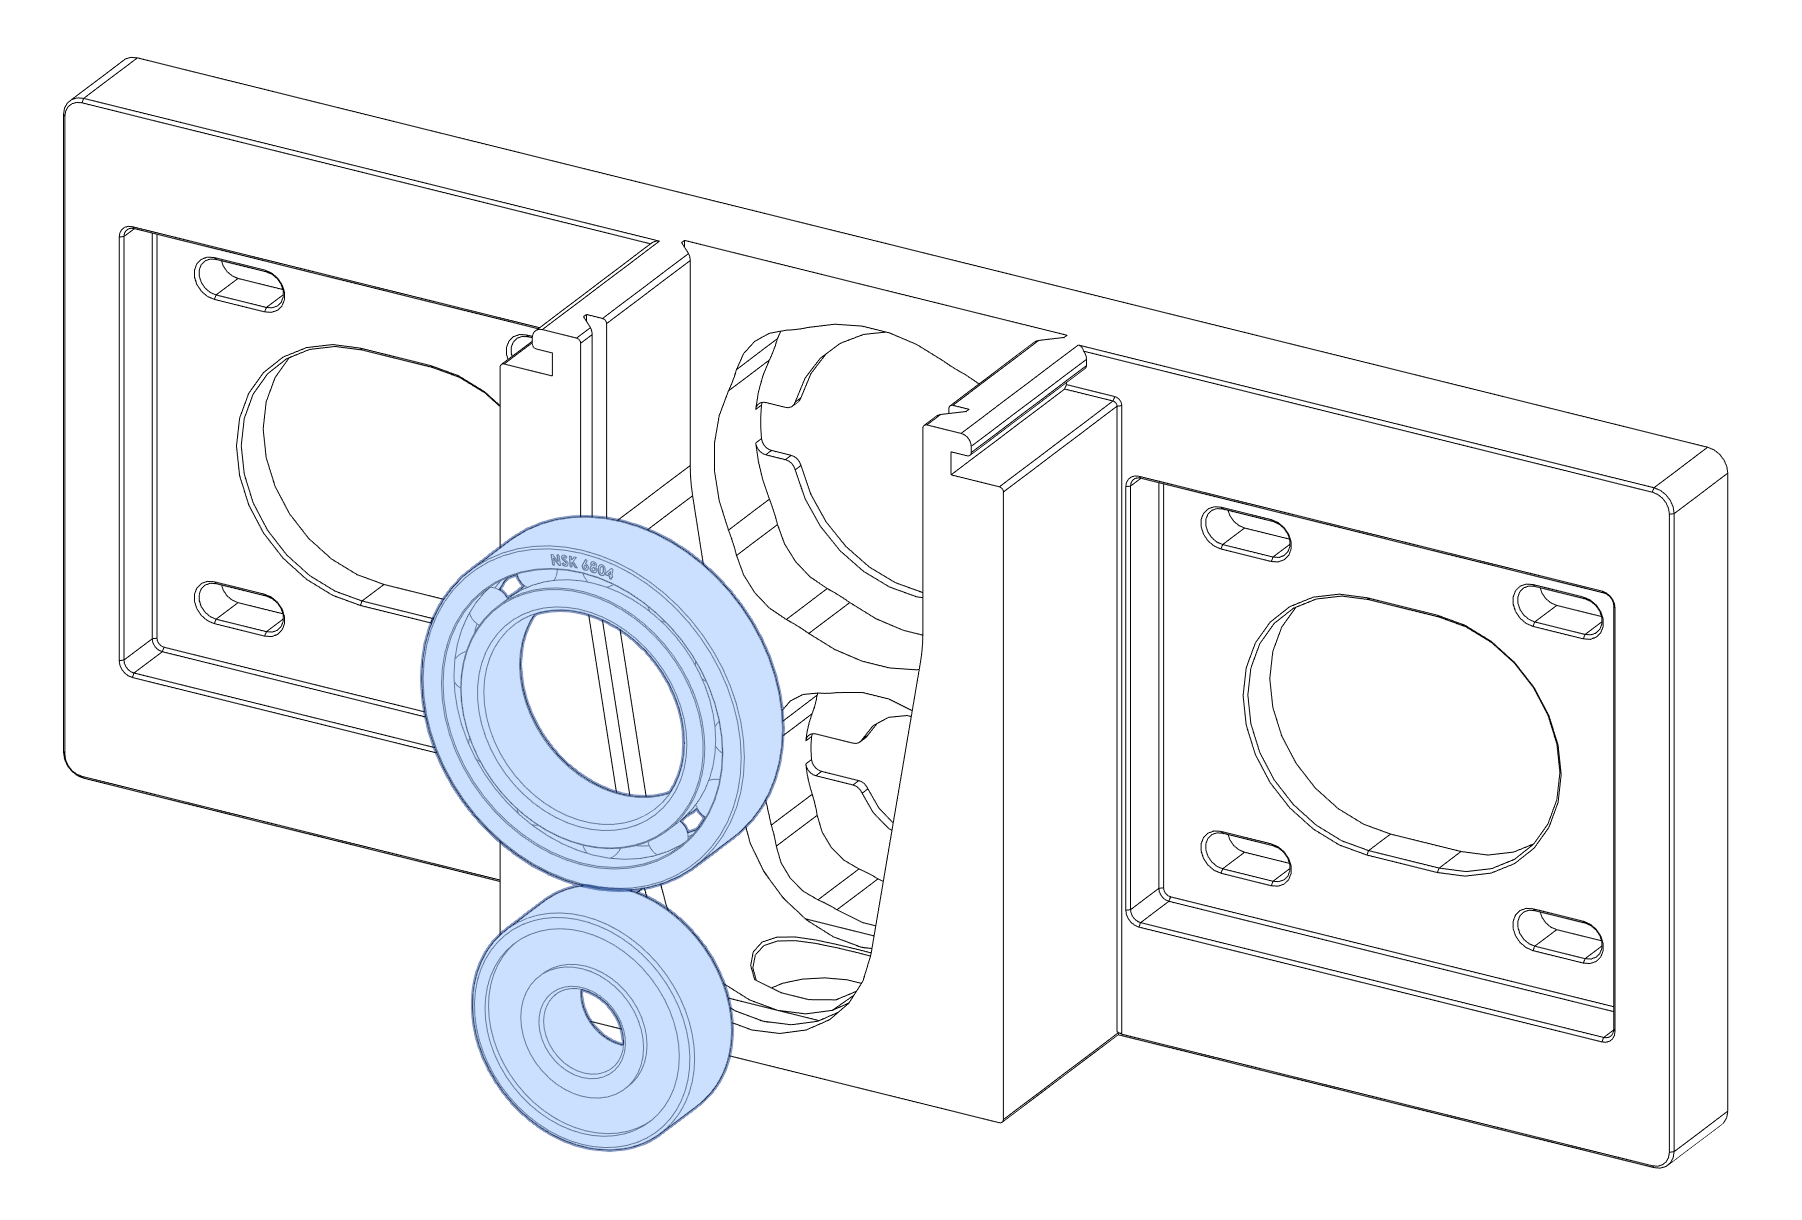
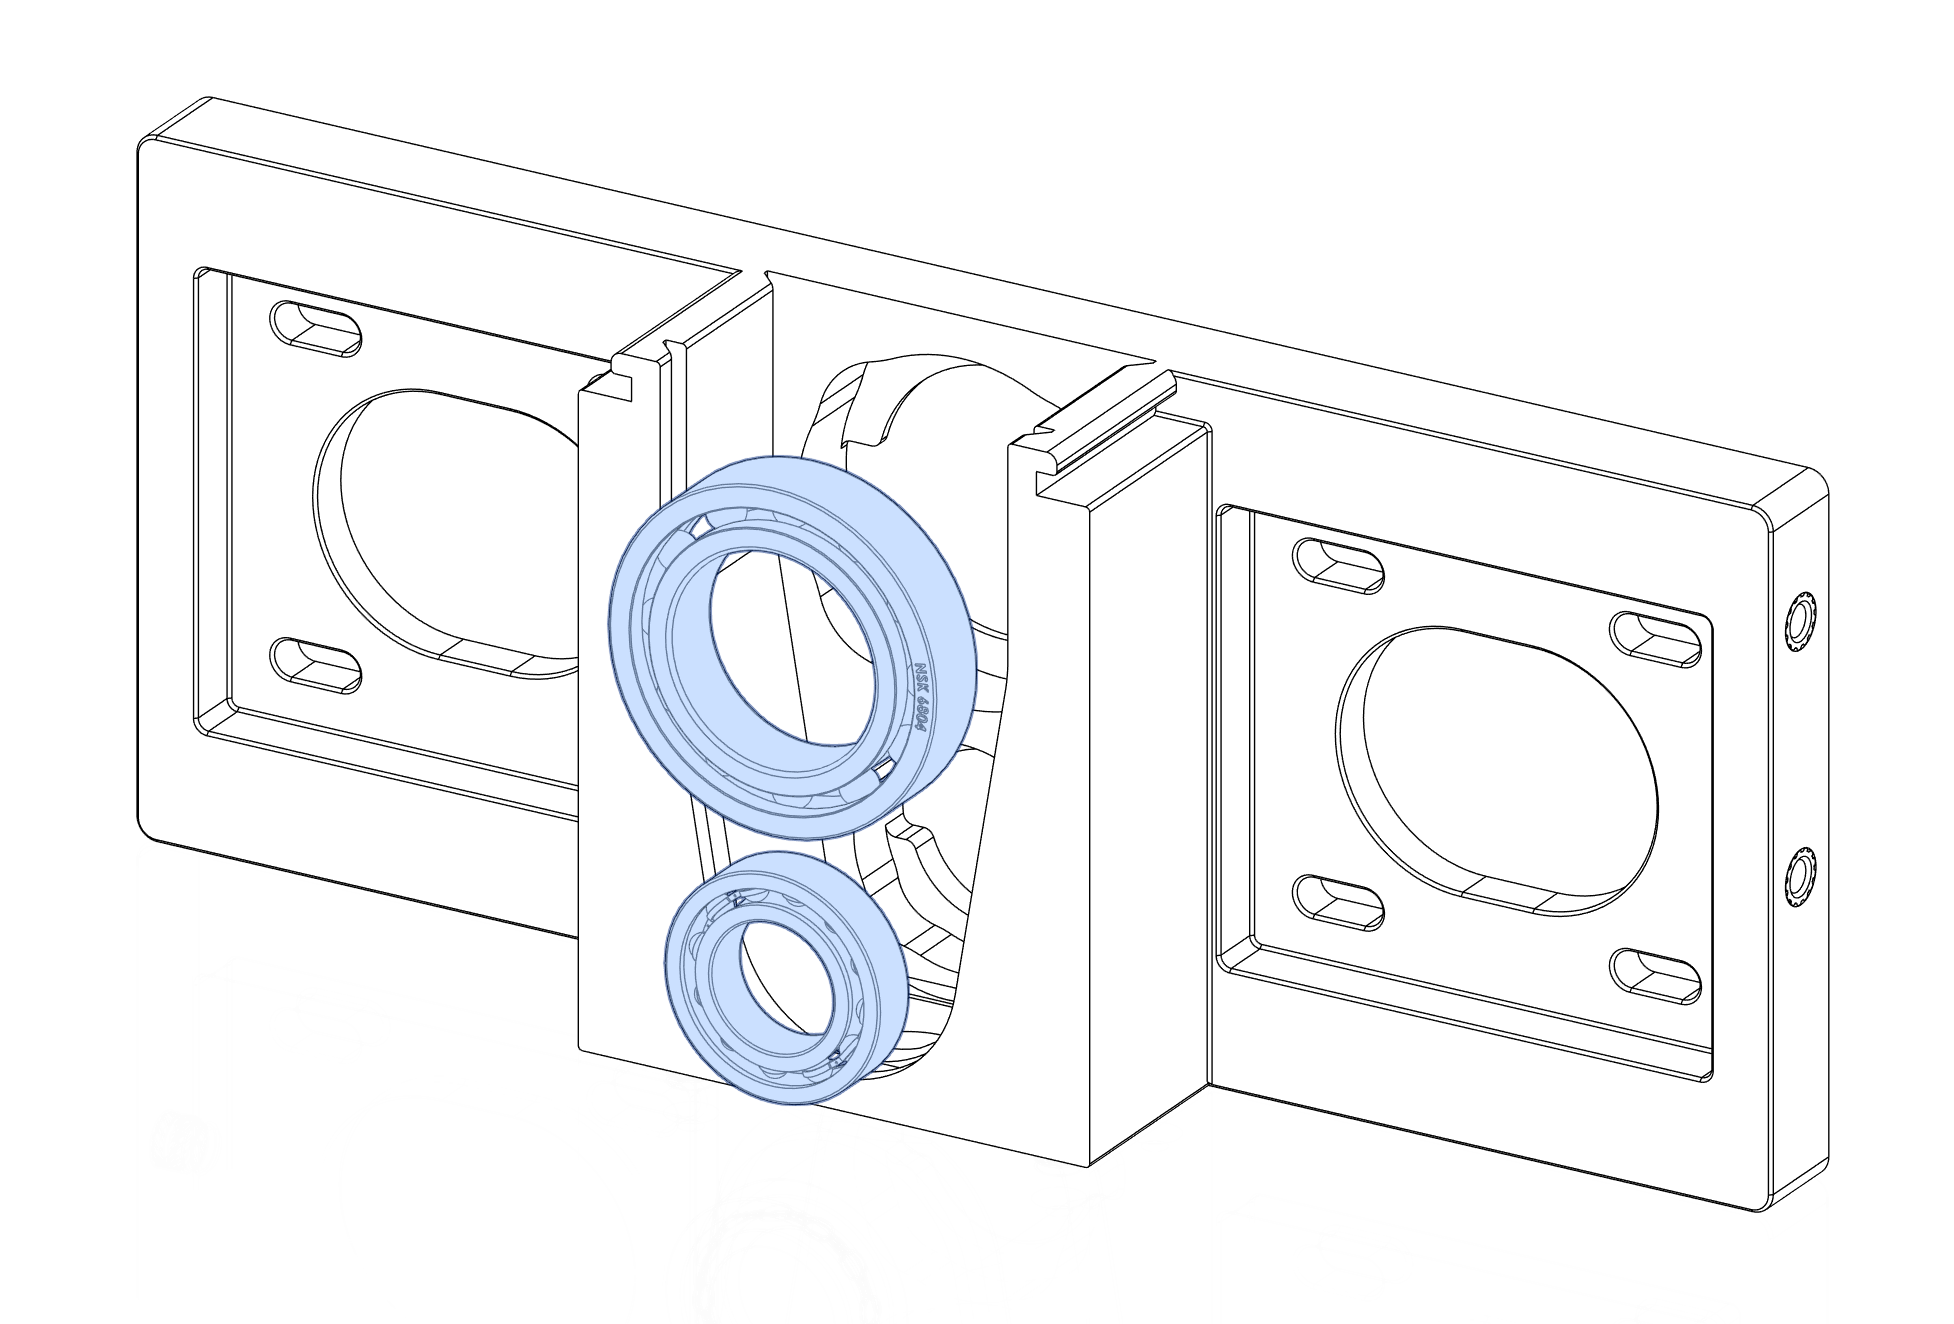
Progress update for manual

diff --git a/STL/OpenTrickler/README.md b/STL/OpenTrickler/README.md
@@ -70,9 +70,13 @@ Melt 4x heatset inserts to the bottom of the [rear_body.stl](rear_body.stl). Mak
 
 ![open_trickler_rear_body_install_heatset_inserts.png](resources/open_trickler_rear_body_install_heatset_inserts.png)
 
+Optionally, the additional 4x heatset inserts can be melt to either sides of the body to support the installation of additional parts, for example, the [WeightHolder](Optional/WeightHolder). 
+
+![open_trickler_rear_body_install_heatset_inserts_sides.png](resources/open_trickler_rear_body_install_heatset_inserts_sides.png)
+
 ### Assembly
 
-Press 6804 bearing to the top bearing pocket and 608 to the bottom bearing pocket of [rear_body.stl](rear_body.stl). [Printable bearing insert helpers](Tools) are supplied to use with benchtop vise if the bearings can't be pressed in by hands. 
+Press 6804 bearing to the top bearing pocket and 6801 to the bottom bearing pocket of [rear_body.stl](rear_body.stl). [Printable bearing insert helpers](Tools) are supplied to use with benchtop vise if the bearings can't be pressed in by hands. 
 
 ![open_trickler_rear_body_install_bearings.png](resources/open_trickler_rear_body_install_bearings.png)
 
@@ -179,5 +183,3 @@ Then pull motors slightly to tension the belts. Once done, tighten all 8 screws.
 # Congratulations
 
 Your Open Trickler is now assembled!
-
-
